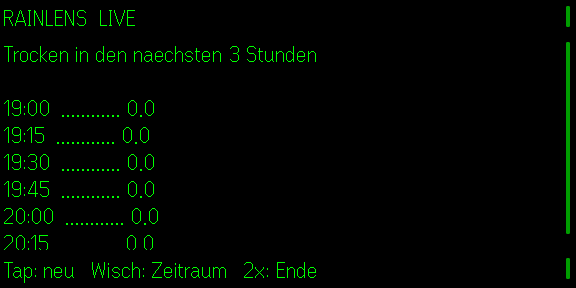
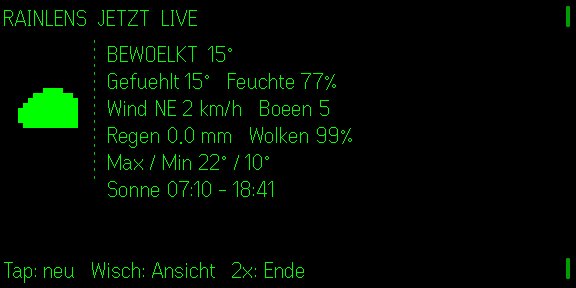
Upgrade RainLens to full weather app

diff --git a/apps/rain-lens/src/main.ts b/apps/rain-lens/src/main.ts
@@ -2,31 +2,42 @@ import { AppLocationAccuracy, waitForEvenAppBridge, type EvenAppBridge } from "@
 import { createTextPage, updateTextPage, type TextView } from "./glasses/text";
 import { getLocale, languageSelect, setLocale, tr, type Locale, type Messages } from "./i18n";
 import { gestureFromEvent } from "./input/gestures";
-import { clock, demoRain, parseOpenMeteo, rainBar, rainSummary, type RainWindow } from "./rain/model";
+import { clock, dayName, demoWeather, parseOpenMeteo, weatherKind, windCompass, type WeatherForecast } from "./rain/model";
+import { renderWeatherIcons } from "./weather/icons";
 
 const FALLBACK = { latitude: 47.8095, longitude: 13.0550 };
 const messages: Messages = {
-  de: { dry: "Trocken in den naechsten 3 Stunden", rain: "Regen ab {time} · Spitze {peak} mm", updating: "Aktualisiere...", controls: "Tap: neu   Wisch: Zeitraum   2x: Ende", lede: "Niederschlag in 15-Minuten-Schritten – ohne Konto und API-Schluessel.", live: "Live-Prognose", demo: "Demo-Fallback", refresh: "Jetzt aktualisieren", settings: "Standort", automatic: "Standort des Telefons verwenden", latitude: "Breitengrad", longitude: "Laengengrad", help: "Automatisch nutzt die Telefonposition. Manuelle Koordinaten werden lokal gespeichert." },
-  en: { dry: "Dry for the next 3 hours", rain: "Rain from {time} · peak {peak} mm", updating: "Updating...", controls: "Tap: refresh   Swipe: range   2x: close", lede: "Precipitation in 15-minute steps, without an account or API key.", live: "Live forecast", demo: "Demo fallback", refresh: "Refresh now", settings: "Location", automatic: "Use phone location", latitude: "Latitude", longitude: "Longitude", help: "Automatic mode uses the phone location. Manual coordinates stay on this device." },
-  fr: { dry: "Temps sec pendant les 3 prochaines heures", rain: "Pluie dès {time} · pic {peak} mm", updating: "Actualisation...", controls: "Tap: actualiser   Swipe: période   2x: fermer", lede: "Précipitations par pas de 15 minutes, sans compte ni clé API.", live: "Prévision en direct", demo: "Mode démo", refresh: "Actualiser", settings: "Position", automatic: "Utiliser la position du téléphone", latitude: "Latitude", longitude: "Longitude", help: "Le mode automatique utilise le téléphone. Les coordonnées manuelles restent sur cet appareil." },
-  es: { dry: "Sin lluvia durante las próximas 3 horas", rain: "Lluvia desde {time} · máximo {peak} mm", updating: "Actualizando...", controls: "Tap: actualizar   Deslizar: periodo   2x: cerrar", lede: "Precipitación cada 15 minutos, sin cuenta ni clave API.", live: "Pronóstico en directo", demo: "Modo demo", refresh: "Actualizar", settings: "Ubicación", automatic: "Usar ubicación del teléfono", latitude: "Latitud", longitude: "Longitud", help: "El modo automático usa el teléfono. Las coordenadas manuales quedan en este dispositivo." },
-  it: { dry: "Nessuna pioggia nelle prossime 3 ore", rain: "Pioggia dalle {time} · picco {peak} mm", updating: "Aggiornamento...", controls: "Tap: aggiorna   Scorri: periodo   2x: chiudi", lede: "Precipitazioni ogni 15 minuti, senza account o chiave API.", live: "Previsioni live", demo: "Modalità demo", refresh: "Aggiorna", settings: "Posizione", automatic: "Usa la posizione del telefono", latitude: "Latitudine", longitude: "Longitudine", help: "La modalità automatica usa il telefono. Le coordinate manuali restano su questo dispositivo." },
+  de: { lede: "Aktuelles Wetter, Stunden- und 3-Tage-Prognose direkt auf der G2.", live: "Live-Prognose", demo: "Demo-Fallback", updating: "Aktualisiere...", controls: "Tap: neu   Wisch: Ansicht   2x: Ende", now: "JETZT", hourly: "STUNDEN", days: "3 TAGE", feels: "Gefuehlt", humidity: "Feuchte", clouds: "Wolken", wind: "Wind", gusts: "Boeen", precipitation: "Regen", highLow: "Max / Min", sun: "Sonne", chance: "Regenrisiko", refresh: "Jetzt aktualisieren", settings: "Standort", automatic: "Standort des Telefons verwenden", latitude: "Breitengrad", longitude: "Laengengrad", help: "Automatisch nutzt die Telefonposition. Manuelle Koordinaten werden nur lokal gespeichert.", clear: "Klar", cloud: "Bewoelkt", fog: "Nebel", rain: "Regen", snow: "Schnee", storm: "Gewitter" },
+  en: { lede: "Current weather plus hourly and 3-day forecasts, directly on the G2.", live: "Live forecast", demo: "Demo fallback", updating: "Updating...", controls: "Tap: refresh   Swipe: view   2x: close", now: "NOW", hourly: "HOURLY", days: "3 DAYS", feels: "Feels", humidity: "Humidity", clouds: "Clouds", wind: "Wind", gusts: "Gusts", precipitation: "Rain", highLow: "High / Low", sun: "Sun", chance: "Rain chance", refresh: "Refresh now", settings: "Location", automatic: "Use phone location", latitude: "Latitude", longitude: "Longitude", help: "Automatic mode uses the phone location. Manual coordinates stay only on this device.", clear: "Clear", cloud: "Cloudy", fog: "Fog", rain: "Rain", snow: "Snow", storm: "Storm" },
+  fr: { lede: "Meteo actuelle, previsions horaires et sur 3 jours directement sur la G2.", live: "Prevision en direct", demo: "Mode demo", updating: "Actualisation...", controls: "Tap: actualiser   Swipe: vue   2x: fermer", now: "MAINTENANT", hourly: "HEURES", days: "3 JOURS", feels: "Ressenti", humidity: "Humidite", clouds: "Nuages", wind: "Vent", gusts: "Rafales", precipitation: "Pluie", highLow: "Max / Min", sun: "Soleil", chance: "Risque pluie", refresh: "Actualiser", settings: "Position", automatic: "Utiliser la position du telephone", latitude: "Latitude", longitude: "Longitude", help: "Le mode automatique utilise le telephone. Les coordonnees restent sur cet appareil.", clear: "Clair", cloud: "Nuageux", fog: "Brouillard", rain: "Pluie", snow: "Neige", storm: "Orage" },
+  es: { lede: "Tiempo actual y pronosticos por hora y para 3 dias directamente en la G2.", live: "Pronostico en directo", demo: "Modo demo", updating: "Actualizando...", controls: "Tap: actualizar   Deslizar: vista   2x: cerrar", now: "AHORA", hourly: "HORAS", days: "3 DIAS", feels: "Sensacion", humidity: "Humedad", clouds: "Nubes", wind: "Viento", gusts: "Rafagas", precipitation: "Lluvia", highLow: "Max / Min", sun: "Sol", chance: "Prob. lluvia", refresh: "Actualizar", settings: "Ubicacion", automatic: "Usar ubicacion del telefono", latitude: "Latitud", longitude: "Longitud", help: "El modo automatico usa el telefono. Las coordenadas quedan solo en este dispositivo.", clear: "Despejado", cloud: "Nublado", fog: "Niebla", rain: "Lluvia", snow: "Nieve", storm: "Tormenta" },
+  it: { lede: "Meteo attuale e previsioni orarie e a 3 giorni direttamente sulla G2.", live: "Previsioni live", demo: "Modalita demo", updating: "Aggiornamento...", controls: "Tap: aggiorna   Scorri: vista   2x: chiudi", now: "ORA", hourly: "ORE", days: "3 GIORNI", feels: "Percepita", humidity: "Umidita", clouds: "Nuvole", wind: "Vento", gusts: "Raffiche", precipitation: "Pioggia", highLow: "Max / Min", sun: "Sole", chance: "Prob. pioggia", refresh: "Aggiorna", settings: "Posizione", automatic: "Usa la posizione del telefono", latitude: "Latitudine", longitude: "Longitudine", help: "La modalita automatica usa il telefono. Le coordinate restano solo su questo dispositivo.", clear: "Sereno", cloud: "Nuvoloso", fog: "Nebbia", rain: "Pioggia", snow: "Neve", storm: "Temporale" },
 };
+
+const round = (value: number): string => `${Math.round(value)}°`;
 
 async function boot(): Promise<void> {
   const bridge: EvenAppBridge = await waitForEvenAppBridge();
-  let locale = getLocale(); let forecast: RainWindow = demoRain(); let loading = false; let error = ""; let pageReady = false; let last = "";
-  const summary = (): string => rainSummary(forecast.points, tr(messages, locale, "dry"), tr(messages, locale, "rain"), locale);
-  const view = (): TextView => ({ header: `RAINLENS  ${forecast.source === "live" ? "LIVE" : "DEMO"}`, body: [summary(), "", ...forecast.points.slice(0, 6).map((point) => `${clock(point.time, locale)}  ${rainBar(point.mm)} ${point.mm.toFixed(1)}`), ...(error ? [`! ${error}`] : [])], footer: loading ? tr(messages, locale, "updating") : tr(messages, locale, "controls") });
-  const draw = async (): Promise<void> => { const next = view(); const signature = JSON.stringify(next); if (signature === last) return; const result = pageReady ? await updateTextPage(bridge, next) : await createTextPage(bridge, next); if (result.ok) { pageReady = true; last = signature; } else pageReady = false; };
+  let locale = getLocale(); let forecast: WeatherForecast = demoWeather(); let loading = false; let error = ""; let pageReady = false; let last = ""; let page = 0;
+  const condition = (code: number): string => tr(messages, locale, weatherKind(code));
+  const currentLines = (): string[] => {
+    const current = forecast.current; const today = forecast.daily[0];
+    return [`${condition(current.weatherCode).toUpperCase()}  ${round(current.temperature)}`, `${tr(messages, locale, "feels")} ${round(current.feelsLike)}   ${tr(messages, locale, "humidity")} ${Math.round(current.humidity)}%`, `${tr(messages, locale, "wind")} ${windCompass(current.windDirection)} ${Math.round(current.windSpeed)} km/h   ${tr(messages, locale, "gusts")} ${Math.round(current.windGusts)}`, `${tr(messages, locale, "precipitation")} ${current.precipitation.toFixed(1)} mm   ${tr(messages, locale, "clouds")} ${Math.round(current.cloudCover)}%`, today ? `${tr(messages, locale, "highLow")} ${round(today.maximum)} / ${round(today.minimum)}` : "", today ? `${tr(messages, locale, "sun")} ${clock(today.sunrise, locale)} - ${clock(today.sunset, locale)}` : ""].filter(Boolean);
+  };
+  const hourlyLines = (): string[] => forecast.hourly.slice(0, 6).map((hour) => `${clock(hour.time, locale)}  ${round(hour.temperature).padEnd(4)} ${condition(hour.weatherCode).padEnd(10)} ${Math.round(hour.precipitationProbability)}%`);
+  const dailyLines = (): string[] => forecast.daily.map((day) => `${dayName(day.date, locale).toUpperCase().padEnd(4)} ${round(day.maximum)} / ${round(day.minimum)}  ${condition(day.weatherCode).padEnd(10)} ${Math.round(day.precipitationProbability)}%`);
+  const view = (): TextView => ({ header: `RAINLENS  ${[tr(messages, locale, "now"), tr(messages, locale, "hourly"), tr(messages, locale, "days")][page]}  ${forecast.source === "live" ? "LIVE" : "DEMO"}`, body: [...(page === 0 ? currentLines() : page === 1 ? hourlyLines() : dailyLines()), ...(error ? [`! ${error}`] : [])], footer: loading ? tr(messages, locale, "updating") : tr(messages, locale, "controls") });
+  const draw = async (): Promise<void> => { const text = view(); const signature = JSON.stringify(text); if (signature === last) return; const next: TextView = { ...text, imageData: await renderWeatherIcons(forecast, page) }; const result = pageReady ? await updateTextPage(bridge, next) : await createTextPage(bridge, next); if (result.ok) { pageReady = true; last = signature; } else pageReady = false; };
   const coordinates = async (): Promise<{ latitude: number; longitude: number }> => { const automatic = localStorage.getItem("rainlens.auto") !== "false"; if (automatic) { const fix = await bridge.getAppLocation({ accuracy: AppLocationAccuracy.Medium }).catch(() => null); if (fix) return fix; } const latitude = Number(localStorage.getItem("rainlens.lat")); const longitude = Number(localStorage.getItem("rainlens.lon")); return Number.isFinite(latitude) && Number.isFinite(longitude) && (latitude !== 0 || longitude !== 0) ? { latitude, longitude } : FALLBACK; };
-  const refresh = async (): Promise<void> => { loading = true; error = ""; await draw(); const position = await coordinates(); const url = new URL("https://api.open-meteo.com/v1/forecast"); url.searchParams.set("latitude", String(position.latitude)); url.searchParams.set("longitude", String(position.longitude)); url.searchParams.set("minutely_15", "precipitation"); url.searchParams.set("forecast_minutely_15", "12"); url.searchParams.set("timezone", "auto"); try { const response = await fetch(url); if (!response.ok) throw new Error(`HTTP ${response.status}`); forecast = parseOpenMeteo(await response.json()); } catch (cause) { error = cause instanceof Error ? cause.message : String(cause); } loading = false; last = ""; await draw(); renderPhone(); };
-  const renderPhone = (): void => { const app = document.querySelector<HTMLDivElement>("#app"); if (!app) return; const automatic = localStorage.getItem("rainlens.auto") !== "false"; app.innerHTML = `<header class="brand"><div class="brand-mark">QUIETGLASS / WEATHER</div><h1>RainLens</h1><p class="lede">${tr(messages, locale, "lede")}</p></header><section class="card">${languageSelect(locale)}</section><section class="card"><div class="status-row"><span class="status-dot ${forecast.source === "demo" ? "warn" : ""}"></span><strong>${tr(messages, locale, forecast.source === "live" ? "live" : "demo")}</strong></div><h2>${summary()}</h2><div class="timeline">${forecast.points.slice(0, 8).map((point) => `<div><span>${clock(point.time, locale)}</span><b style="width:${Math.min(100, point.mm * 32)}%"></b><em>${point.mm.toFixed(1)} mm</em></div>`).join("")}</div><button id="refresh">${tr(messages, locale, "refresh")}</button></section><section class="card"><h2>${tr(messages, locale, "settings")}</h2><label class="check"><input id="automatic" type="checkbox"${automatic ? " checked" : ""}>${tr(messages, locale, "automatic")}</label><label>${tr(messages, locale, "latitude")}<input id="lat" type="text" value="${localStorage.getItem("rainlens.lat") ?? FALLBACK.latitude}"></label><label>${tr(messages, locale, "longitude")}<input id="lon" type="text" value="${localStorage.getItem("rainlens.lon") ?? FALLBACK.longitude}"></label><p class="hint">${tr(messages, locale, "help")}</p></section>`;
+  const refresh = async (): Promise<void> => { loading = true; error = ""; await draw(); const position = await coordinates(); const url = new URL("https://api.open-meteo.com/v1/forecast"); url.searchParams.set("latitude", String(position.latitude)); url.searchParams.set("longitude", String(position.longitude)); url.searchParams.set("current", "temperature_2m,relative_humidity_2m,apparent_temperature,is_day,precipitation,weather_code,cloud_cover,wind_speed_10m,wind_direction_10m,wind_gusts_10m"); url.searchParams.set("hourly", "temperature_2m,precipitation_probability,precipitation,weather_code,wind_speed_10m"); url.searchParams.set("daily", "weather_code,temperature_2m_max,temperature_2m_min,precipitation_probability_max,sunrise,sunset"); url.searchParams.set("forecast_days", "3"); url.searchParams.set("timezone", "auto"); try { const response = await fetch(url); if (!response.ok) throw new Error(`HTTP ${response.status}`); forecast = parseOpenMeteo(await response.json()); } catch (cause) { error = cause instanceof Error ? cause.message : String(cause); } loading = false; last = ""; await draw(); renderPhone(); };
+  const renderPhone = (): void => {
+    const app = document.querySelector<HTMLDivElement>("#app"); if (!app) return; const automatic = localStorage.getItem("rainlens.auto") !== "false"; const current = forecast.current; const today = forecast.daily[0];
+    app.innerHTML = `<header class="brand"><div class="brand-mark">QUIETGLASS / WEATHER</div><h1>RainLens</h1><p class="lede">${tr(messages, locale, "lede")}</p></header><section class="card compact">${languageSelect(locale)}</section><section class="card weather-card"><div class="status-row"><span class="status-dot ${forecast.source === "demo" ? "warn" : ""}"></span><strong>${tr(messages, locale, forecast.source === "live" ? "live" : "demo")}</strong><time>${clock(current.time, locale)}</time></div><div class="weather-hero"><div><span>${condition(current.weatherCode)}</span><strong>${round(current.temperature)}</strong></div><p>${tr(messages, locale, "feels")} ${round(current.feelsLike)}</p></div><div class="weather-grid"><div><span>${tr(messages, locale, "humidity")}</span><b>${Math.round(current.humidity)}%</b></div><div><span>${tr(messages, locale, "wind")}</span><b>${windCompass(current.windDirection)} ${Math.round(current.windSpeed)}</b><small>km/h</small></div><div><span>${tr(messages, locale, "precipitation")}</span><b>${current.precipitation.toFixed(1)}</b><small>mm</small></div><div><span>${tr(messages, locale, "clouds")}</span><b>${Math.round(current.cloudCover)}%</b></div></div>${error ? `<p class="error">${error}</p>` : ""}<button id="refresh">${tr(messages, locale, "refresh")}</button></section><section class="card"><div class="section-title"><h2>${tr(messages, locale, "hourly")}</h2><span>${tr(messages, locale, "chance")}</span></div><div class="hourly-strip">${forecast.hourly.slice(0, 8).map((hour) => `<div><time>${clock(hour.time, locale)}</time><b>${round(hour.temperature)}</b><span>${condition(hour.weatherCode)}</span><em>${Math.round(hour.precipitationProbability)}%</em></div>`).join("")}</div></section><section class="card"><h2>${tr(messages, locale, "days")}</h2><div class="forecast-list">${forecast.daily.map((day) => `<div><b>${dayName(day.date, locale)}</b><span>${condition(day.weatherCode)}</span><em>${round(day.maximum)} / ${round(day.minimum)}</em><small>${Math.round(day.precipitationProbability)}%</small></div>`).join("")}</div>${today ? `<div class="sun-row"><span>${tr(messages, locale, "sun")}</span><b>${clock(today.sunrise, locale)} → ${clock(today.sunset, locale)}</b></div>` : ""}</section><section class="card"><h2>${tr(messages, locale, "settings")}</h2><label class="check"><input id="automatic" type="checkbox"${automatic ? " checked" : ""}>${tr(messages, locale, "automatic")}</label><label>${tr(messages, locale, "latitude")}<input id="lat" type="text" value="${localStorage.getItem("rainlens.lat") ?? FALLBACK.latitude}"></label><label>${tr(messages, locale, "longitude")}<input id="lon" type="text" value="${localStorage.getItem("rainlens.lon") ?? FALLBACK.longitude}"></label><p class="hint">${tr(messages, locale, "help")}</p></section>`;
     document.querySelector("#language")?.addEventListener("change", (event) => { locale = (event.target as HTMLSelectElement).value as Locale; setLocale(locale); last = ""; void draw(); renderPhone(); });
     document.querySelector("#refresh")?.addEventListener("click", () => { const auto = document.querySelector<HTMLInputElement>("#automatic"); const lat = document.querySelector<HTMLInputElement>("#lat"); const lon = document.querySelector<HTMLInputElement>("#lon"); localStorage.setItem("rainlens.auto", String(auto?.checked ?? true)); if (lat) localStorage.setItem("rainlens.lat", lat.value); if (lon) localStorage.setItem("rainlens.lon", lon.value); void refresh(); });
   };
   await draw(); renderPhone(); void refresh();
-  bridge.onEvenHubEvent((event) => { const gesture = gestureFromEvent(event); if (!gesture) return; if (gesture.gesture === "doubleClick") { void bridge.shutDownPageContainer(); return; } if (gesture.gesture === "click" || gesture.gesture.startsWith("scroll")) void refresh(); });
+  bridge.onEvenHubEvent((event) => { const gesture = gestureFromEvent(event); if (!gesture) return; if (gesture.gesture === "doubleClick") { void bridge.shutDownPageContainer(); return; } if (gesture.gesture === "click") { void refresh(); return; } if (gesture.gesture.startsWith("scroll")) { page = gesture.gesture === "scrollDown" ? (page + 1) % 3 : (page + 2) % 3; last = ""; void draw(); } });
   bridge.onDeviceStatusChanged((status) => { if (status?.connectType === "connected") { pageReady = false; last = ""; void draw(); } });
 }
 void boot().catch((error: unknown) => console.error("[rainlens]", error));

diff --git a/apps/rain-lens/src/rain/model.ts b/apps/rain-lens/src/rain/model.ts
@@ -1,15 +1,61 @@
-export interface RainPoint { readonly time: string; readonly mm: number; }
-export interface RainWindow { readonly points: readonly RainPoint[]; readonly source: "live" | "demo"; }
-export function parseOpenMeteo(value: unknown): RainWindow {
-  const root = value as { minutely_15?: { time?: unknown; precipitation?: unknown } };
-  const times = root?.minutely_15?.time; const rain = root?.minutely_15?.precipitation;
-  if (!Array.isArray(times) || !Array.isArray(rain)) throw new Error("forecast has no 15-minute precipitation data");
-  const points: RainPoint[] = [];
-  for (let index = 0; index < Math.min(times.length, rain.length, 12); index += 1) { const time = times[index]; const mm = Number(rain[index]); if (typeof time === "string" && Number.isFinite(mm)) points.push({ time, mm }); }
-  if (points.length === 0) throw new Error("forecast is empty");
-  return { points, source: "live" };
+export type WeatherKind = "clear" | "cloud" | "fog" | "rain" | "snow" | "storm";
+
+export interface CurrentWeather {
+  readonly time: string; readonly temperature: number; readonly feelsLike: number; readonly humidity: number;
+  readonly precipitation: number; readonly weatherCode: number; readonly cloudCover: number; readonly windSpeed: number;
+  readonly windDirection: number; readonly windGusts: number; readonly isDay: boolean;
 }
-export function demoRain(): RainWindow { const values = [0, 0.1, 0.4, 1.2, 2.4, 1.7, 0.8, 0.2, 0, 0, 0.3, 0.7]; return { source: "demo", points: values.map((mm, index) => ({ time: new Date(Date.now() + index * 900_000).toISOString(), mm })) }; }
-export function rainBar(mm: number): string { const count = Math.min(12, Math.max(0, Math.round(mm * 4))); return `${"#".repeat(count)}${".".repeat(12 - count)}`; }
-export function rainSummary(points: readonly RainPoint[], dry = "Trocken in den naechsten 3 Stunden", rain = "Regen ab {time} · Spitze {peak} mm", locale = "de-AT"): string { const first = points.find((point) => point.mm >= 0.1); if (!first) return dry; const peak = points.reduce((best, point) => point.mm > best.mm ? point : best, points[0] ?? first); return rain.replace("{time}", clock(first.time, locale)).replace("{peak}", peak.mm.toFixed(1)); }
+export interface HourWeather { readonly time: string; readonly temperature: number; readonly precipitationProbability: number; readonly precipitation: number; readonly weatherCode: number; readonly windSpeed: number; }
+export interface DayWeather { readonly date: string; readonly minimum: number; readonly maximum: number; readonly precipitationProbability: number; readonly weatherCode: number; readonly sunrise: string; readonly sunset: string; }
+export interface WeatherForecast { readonly current: CurrentWeather; readonly hourly: readonly HourWeather[]; readonly daily: readonly DayWeather[]; readonly source: "live" | "demo"; }
+
+type NumericRecord = Record<string, unknown>;
+function finite(record: NumericRecord, key: string): number { const value = Number(record[key]); if (!Number.isFinite(value)) throw new Error(`forecast field ${key} is missing`); return value; }
+function strings(value: unknown): readonly string[] { return Array.isArray(value) ? value.filter((item): item is string => typeof item === "string") : []; }
+function numbers(value: unknown): readonly number[] { return Array.isArray(value) ? value.map(Number) : []; }
+
+export function parseOpenMeteo(value: unknown): WeatherForecast {
+  const root = value as { current?: NumericRecord; hourly?: NumericRecord; daily?: NumericRecord };
+  if (!root?.current || typeof root.current.time !== "string") throw new Error("forecast has no current weather");
+  const current: CurrentWeather = {
+    time: root.current.time, temperature: finite(root.current, "temperature_2m"), feelsLike: finite(root.current, "apparent_temperature"),
+    humidity: finite(root.current, "relative_humidity_2m"), precipitation: finite(root.current, "precipitation"), weatherCode: finite(root.current, "weather_code"),
+    cloudCover: finite(root.current, "cloud_cover"), windSpeed: finite(root.current, "wind_speed_10m"), windDirection: finite(root.current, "wind_direction_10m"),
+    windGusts: finite(root.current, "wind_gusts_10m"), isDay: finite(root.current, "is_day") === 1,
+  };
+  const hourly = root.hourly ?? {}; const hourTimes = strings(hourly.time); const hourTemperature = numbers(hourly.temperature_2m);
+  const hourRainChance = numbers(hourly.precipitation_probability); const hourRain = numbers(hourly.precipitation);
+  const hourCodes = numbers(hourly.weather_code); const hourWind = numbers(hourly.wind_speed_10m); const hours: HourWeather[] = [];
+  for (let index = 0; index < hourTimes.length && hours.length < 12; index += 1) {
+    const time = hourTimes[index]; if (!time || time < current.time) continue;
+    const values = [hourTemperature[index], hourRainChance[index], hourRain[index], hourCodes[index], hourWind[index]];
+    if (!values.every(Number.isFinite)) continue;
+    hours.push({ time, temperature: values[0]!, precipitationProbability: values[1]!, precipitation: values[2]!, weatherCode: values[3]!, windSpeed: values[4]! });
+  }
+  if (hours.length === 0) throw new Error("forecast has no hourly weather");
+  const daily = root.daily ?? {}; const dayDates = strings(daily.time); const dayMin = numbers(daily.temperature_2m_min); const dayMax = numbers(daily.temperature_2m_max);
+  const dayRain = numbers(daily.precipitation_probability_max); const dayCodes = numbers(daily.weather_code); const sunrises = strings(daily.sunrise); const sunsets = strings(daily.sunset); const days: DayWeather[] = [];
+  for (let index = 0; index < Math.min(dayDates.length, 3); index += 1) {
+    const date = dayDates[index]; const sunrise = sunrises[index]; const sunset = sunsets[index]; const values = [dayMin[index], dayMax[index], dayRain[index], dayCodes[index]];
+    if (!date || !sunrise || !sunset || !values.every(Number.isFinite)) continue;
+    days.push({ date, minimum: values[0]!, maximum: values[1]!, precipitationProbability: values[2]!, weatherCode: values[3]!, sunrise, sunset });
+  }
+  if (days.length === 0) throw new Error("forecast has no daily weather");
+  return { current, hourly: hours, daily: days, source: "live" };
+}
+
+export function demoWeather(now = new Date()): WeatherForecast {
+  const hour = new Date(now); hour.setMinutes(0, 0, 0);
+  const hourly = Array.from({ length: 12 }, (_, index): HourWeather => ({ time: new Date(hour.valueOf() + index * 3_600_000).toISOString(), temperature: 14 + Math.sin(index / 3) * 3, precipitationProbability: [15, 20, 35, 60, 75, 55, 30, 20, 10, 10, 5, 5][index] ?? 0, precipitation: [0, 0, 0, 0.4, 1.2, 0.6, 0.1, 0, 0, 0, 0, 0][index] ?? 0, weatherCode: [2, 2, 3, 61, 63, 61, 3, 2, 1, 1, 0, 0][index] ?? 0, windSpeed: 12 + index }));
+  const daily = Array.from({ length: 3 }, (_, index): DayWeather => { const date = new Date(now.valueOf() + index * 86_400_000).toISOString().slice(0, 10); return { date, minimum: 8 + index, maximum: 18 + index, precipitationProbability: [75, 25, 10][index] ?? 0, weatherCode: [61, 2, 1][index] ?? 0, sunrise: `${date}T07:08`, sunset: `${date}T18:42` }; });
+  return { source: "demo", current: { time: now.toISOString(), temperature: 14.8, feelsLike: 13.6, humidity: 72, precipitation: 0, weatherCode: 2, cloudCover: 55, windSpeed: 14, windDirection: 245, windGusts: 24, isDay: true }, hourly, daily };
+}
+
+export function weatherKind(code: number): WeatherKind {
+  if (code === 0 || code === 1) return "clear"; if (code === 2 || code === 3) return "cloud"; if (code === 45 || code === 48) return "fog";
+  if ((code >= 51 && code <= 67) || (code >= 80 && code <= 82)) return "rain"; if ((code >= 71 && code <= 77) || code === 85 || code === 86) return "snow";
+  if (code >= 95) return "storm"; return "cloud";
+}
+export function windCompass(degrees: number): string { const points = ["N", "NE", "E", "SE", "S", "SW", "W", "NW"]; return points[Math.round(((degrees % 360) + 360) % 360 / 45) % 8] ?? "N"; }
 export function clock(iso: string, locale = "de-AT"): string { const date = new Date(iso); return Number.isNaN(date.valueOf()) ? "--:--" : date.toLocaleTimeString(locale, { hour: "2-digit", minute: "2-digit" }); }
+export function dayName(iso: string, locale = "de-AT"): string { const date = new Date(`${iso}T12:00:00`); return Number.isNaN(date.valueOf()) ? "---" : date.toLocaleDateString(locale, { weekday: "short" }); }

diff --git a/apps/rain-lens/src/glasses/text.ts b/apps/rain-lens/src/glasses/text.ts
@@ -1,6 +1,6 @@
-import { CreateStartUpPageContainer, RebuildPageContainer, StartUpPageCreateResult, TextContainerProperty, TextContainerUpgrade, type EvenAppBridge } from "@evenrealities/even_hub_sdk";
+import { CreateStartUpPageContainer, ImageContainerProperty, ImageRawDataUpdate, ImageRawDataUpdateResult, RebuildPageContainer, StartUpPageCreateResult, TextContainerProperty, TextContainerUpgrade, type EvenAppBridge } from "@evenrealities/even_hub_sdk";
 
-export interface TextView { readonly header: string; readonly body: readonly string[]; readonly footer: string; }
+export interface TextView { readonly header: string; readonly body: readonly string[]; readonly footer: string; readonly imageData?: Uint8Array; }
 export interface RenderResult { readonly ok: boolean; readonly reason?: string; }
 const parts = [
   { id: 1, name: "header", y: 0, height: 34 },
@@ -11,13 +11,20 @@ const parts = [
 function page(view: TextView): CreateStartUpPageContainer {
   const content = [view.header, view.body.join("\n"), view.footer];
   return new CreateStartUpPageContainer({
-    containerTotalNum: 3,
+    containerTotalNum: view.imageData ? 4 : 3,
     textObject: parts.map((part, index) => new TextContainerProperty({
-      containerID: part.id, containerName: part.name, xPosition: 0, yPosition: part.y,
-      width: 576, height: part.height, paddingLength: 4, zOrderIndex: index + 1,
+      containerID: part.id, containerName: part.name, xPosition: part.id === 2 && view.imageData ? 104 : 0, yPosition: part.y,
+      width: part.id === 2 && view.imageData ? 472 : 576, height: part.height, paddingLength: 4, zOrderIndex: index + 1,
       isEventCapture: part.id === 2 ? 1 : 0, content: content[index] ?? "",
     })),
+    imageObject: view.imageData ? [new ImageContainerProperty({ containerID: 4, containerName: "weather-icons", xPosition: 0, yPosition: 36, width: 96, height: 144, zOrderIndex: 4 })] : [],
   });
+}
+
+async function updateImage(bridge: EvenAppBridge, view: TextView): Promise<RenderResult> {
+  if (!view.imageData) return { ok: true };
+  try { const result = await bridge.updateImageRawData(new ImageRawDataUpdate({ containerID: 4, containerName: "weather-icons", imageData: view.imageData })); return result === ImageRawDataUpdateResult.success ? { ok: true } : { ok: false, reason: `image:${String(result)}` }; }
+  catch (error) { return { ok: false, reason: error instanceof Error ? error.message : String(error) }; }
 }
 
 export async function createTextPage(bridge: EvenAppBridge, view: TextView): Promise<RenderResult> {
@@ -25,7 +32,7 @@ export async function createTextPage(bridge: EvenAppBridge, view: TextView): Pro
   try { await bridge.rebuildPageContainer(new RebuildPageContainer({ ...next })); } catch { /* firmware path */ }
   try {
     const result = await bridge.createStartUpPageContainer(next);
-    return result === StartUpPageCreateResult.success ? { ok: true } : { ok: false, reason: `create:${String(result)}` };
+    return result === StartUpPageCreateResult.success ? updateImage(bridge, view) : { ok: false, reason: `create:${String(result)}` };
   } catch (error) { return { ok: false, reason: error instanceof Error ? error.message : String(error) }; }
 }
 
@@ -37,6 +44,6 @@ export async function updateTextPage(bridge: EvenAppBridge, view: TextView): Pro
       if (!part) continue;
       await bridge.textContainerUpgrade(new TextContainerUpgrade({ containerID: part.id, containerName: part.name, content: content[index] ?? "" }));
     }
-    return { ok: true };
+    return updateImage(bridge, view);
   } catch (error) { return { ok: false, reason: error instanceof Error ? error.message : String(error) }; }
 }

diff --git a/apps/rain-lens/src/ui/phone.css b/apps/rain-lens/src/ui/phone.css
@@ -38,6 +38,32 @@ main { max-width: 640px; margin: 0 auto; }
   margin-bottom: 16px;
 }
 .card h2 { margin: 0 0 12px; font-size: 15px; letter-spacing: 0.02em; }
+.card.compact { padding: 4px 16px 14px; }
+.weather-card { border-top: 3px solid var(--accent); }
+.status-row time { margin-left: auto; color: var(--muted); font: 500 12px/1.5 "JetBrains Mono", ui-monospace, monospace; }
+.weather-hero { display: flex; align-items: end; justify-content: space-between; gap: 16px; padding: 4px 0 18px; }
+.weather-hero div { display: grid; }
+.weather-hero span { color: var(--accent); font-weight: 700; letter-spacing: .04em; text-transform: uppercase; }
+.weather-hero strong { font-size: clamp(56px, 16vw, 82px); line-height: .95; letter-spacing: -.06em; }
+.weather-hero p { margin: 0 0 6px; color: var(--muted); white-space: nowrap; }
+.weather-grid { display: grid; grid-template-columns: repeat(4, 1fr); gap: 1px; overflow: hidden; border: 1px solid var(--line); border-radius: 10px; background: var(--line); }
+.weather-grid div { min-width: 0; padding: 11px 9px; background: var(--soft); }
+.weather-grid span, .weather-grid small { display: block; overflow: hidden; color: var(--muted); font-size: 11px; text-overflow: ellipsis; white-space: nowrap; }
+.weather-grid b { font-size: 18px; }
+.section-title { display: flex; align-items: baseline; justify-content: space-between; gap: 12px; }
+.section-title span { color: var(--muted); font-size: 12px; }
+.hourly-strip { display: grid; grid-auto-columns: minmax(78px, 1fr); grid-auto-flow: column; gap: 8px; overflow-x: auto; padding-bottom: 5px; scrollbar-color: var(--line) transparent; }
+.hourly-strip div { display: grid; gap: 3px; padding: 10px; border-radius: 10px; background: var(--bg); }
+.hourly-strip time, .hourly-strip span, .hourly-strip em { color: var(--muted); font-size: 12px; font-style: normal; }
+.hourly-strip b { font-size: 21px; }
+.hourly-strip em { color: var(--accent); font-weight: 700; }
+.forecast-list > div { display: grid; grid-template-columns: 55px 1fr auto 42px; align-items: center; gap: 10px; padding: 11px 0; border-bottom: 1px solid var(--line); }
+.forecast-list span, .forecast-list em, .forecast-list small { color: var(--muted); font-size: 13px; font-style: normal; }
+.forecast-list em, .forecast-list small { text-align: right; }
+.forecast-list small { color: var(--accent); }
+.sun-row { display: flex; justify-content: space-between; gap: 16px; padding-top: 13px; color: var(--muted); font-size: 13px; }
+.sun-row b { color: var(--text); }
+.error { padding: 8px 10px; border-radius: 8px; background: rgba(239,68,68,.12); color: #fca5a5; font-size: 13px; }
 
 label { display: block; margin: 12px 0 6px; font-size: 14px; color: var(--muted); }
 label.check { display: flex; align-items: center; gap: 8px; color: var(--text); }
@@ -105,3 +131,9 @@ code {
   border-radius: 5px; padding: 1px 5px; font-size: 13px;
 }
 footer.hint { text-align: center; padding: 8px 0 24px; }
+
+@media (max-width: 460px) {
+  .weather-grid { grid-template-columns: repeat(2, 1fr); }
+  .forecast-list > div { grid-template-columns: 48px 1fr auto; }
+  .forecast-list small { display: none; }
+}

diff --git a/apps/rain-lens/src/weather/icons.ts b/apps/rain-lens/src/weather/icons.ts
@@ -1,0 +1,26 @@
+import { weatherKind, type WeatherForecast, type WeatherKind } from "../rain/model";
+
+const icons: Record<WeatherKind, readonly string[]> = {
+  clear: [".....##.....", "..#..##..#..", "...#....#...", "............", ".#...####...#", "....######..", "##..######..", "##..######..", "....######..", ".#...####...#", "...#....#...", "..#..##..#.."],
+  cloud: ["............", "............", ".....####...", "...########.", "..##########", ".###########", "############", "############", "############", ".###########", "............", "............"],
+  fog: ["............", "...######...", ".##########.", "############", "............", ".##########.", "............", "..########..", "............", ".##########.", "............", "............"],
+  rain: ["............", ".....####...", "...########.", ".###########", "############", "############", "............", "..#...#...#.", ".##..##..##..", ".#...#...#...", "#...#...#...", "............"],
+  snow: ["............", ".....####...", "...########.", ".###########", "############", "############", "............", ".#...#...#...", "..#.#.#.#...", ".###.###.###.", "..#...#...#.", "............"],
+  storm: ["............", ".....####...", "...########.", ".###########", "############", "############", ".....##.....", "....###.....", "...#####....", ".....##.....", "....##......", "...##......."],
+};
+
+function drawIcon(ctx: CanvasRenderingContext2D, kind: WeatherKind, x: number, y: number, scale: number): void {
+  const pattern = icons[kind]; ctx.fillStyle = "#fff";
+  pattern.forEach((row, rowIndex) => { for (let column = 0; column < row.length; column += 1) if (row[column] === "#") ctx.fillRect(x + column * scale, y + rowIndex * scale, scale, scale); });
+}
+
+export async function renderWeatherIcons(forecast: WeatherForecast, page: number, width = 96, height = 144): Promise<Uint8Array> {
+  const canvas = document.createElement("canvas"); canvas.width = width; canvas.height = height; const ctx = canvas.getContext("2d"); if (!ctx) throw new Error("2d canvas unavailable");
+  ctx.imageSmoothingEnabled = false; ctx.fillStyle = "#000"; ctx.fillRect(0, 0, width, height);
+  ctx.fillStyle = "#555"; for (let y = 4; y < height; y += 8) ctx.fillRect(width - 2, y, 1, 3);
+  if (page === 0) drawIcon(ctx, weatherKind(forecast.current.weatherCode), 18, 42, 5);
+  if (page === 1) forecast.hourly.slice(0, 6).forEach((hour, index) => drawIcon(ctx, weatherKind(hour.weatherCode), 36, index * 24, 2));
+  if (page === 2) forecast.daily.slice(0, 3).forEach((day, index) => drawIcon(ctx, weatherKind(day.weatherCode), 30, 8 + index * 48, 3));
+  const blob: Blob = await new Promise((resolve, reject) => canvas.toBlob((value) => value ? resolve(value) : reject(new Error("PNG encode failed")), "image/png"));
+  return new Uint8Array(await blob.arrayBuffer());
+}

diff --git a/apps/rain-lens/tests/rain.test.ts b/apps/rain-lens/tests/rain.test.ts
@@ -1,7 +1,14 @@
 import { describe, expect, it } from "vitest";
-import { parseOpenMeteo, rainBar, rainSummary } from "../src/rain/model";
-describe("rain model", () => {
-  it("parses aligned 15-minute values", () => { expect(parseOpenMeteo({ minutely_15: { time: ["2026-10-03T10:00"], precipitation: [1.25] } }).points[0]?.mm).toBe(1.25); });
-  it("caps the bar", () => { expect(rainBar(99)).toBe("############"); });
-  it("describes dry weather", () => { expect(rainSummary([{ time: "2026-10-03T10:00", mm: 0 }])).toContain("Trocken"); });
+import { parseOpenMeteo, weatherKind, windCompass } from "../src/rain/model";
+
+const response = {
+  current: { time: "2026-10-03T11:00", temperature_2m: 14.5, apparent_temperature: 13.2, relative_humidity_2m: 72, precipitation: 0.2, weather_code: 61, cloud_cover: 80, wind_speed_10m: 18, wind_direction_10m: 225, wind_gusts_10m: 31, is_day: 1 },
+  hourly: { time: ["2026-10-03T10:00", "2026-10-03T11:00", "2026-10-03T12:00"], temperature_2m: [13, 14.5, 15], precipitation_probability: [20, 60, 75], precipitation: [0, 0.2, 0.8], weather_code: [3, 61, 63], wind_speed_10m: [15, 18, 20] },
+  daily: { time: ["2026-10-03"], temperature_2m_min: [8], temperature_2m_max: [18], precipitation_probability_max: [75], weather_code: [61], sunrise: ["2026-10-03T07:08"], sunset: ["2026-10-03T18:42"] },
+};
+
+describe("weather model", () => {
+  it("parses current, future hourly, and daily weather", () => { const weather = parseOpenMeteo(response); expect(weather.current.temperature).toBe(14.5); expect(weather.hourly.map((hour) => hour.time)).toEqual(["2026-10-03T11:00", "2026-10-03T12:00"]); expect(weather.daily[0]?.maximum).toBe(18); });
+  it("maps WMO weather codes to useful groups", () => { expect([weatherKind(0), weatherKind(45), weatherKind(63), weatherKind(75), weatherKind(95)]).toEqual(["clear", "fog", "rain", "snow", "storm"]); });
+  it("normalizes wind direction to eight compass points", () => { expect(windCompass(225)).toBe("SW"); expect(windCompass(370)).toBe("N"); expect(windCompass(-90)).toBe("W"); });
 });

diff --git a/apps/rain-lens/README.md b/apps/rain-lens/README.md
@@ -1,20 +1,27 @@
 # RainLens
 
-**Quietglass** · Niederschlag auf einen Blick für die Even Realities G2.
+**Quietglass** · Eine vollwertige Wetter-App für die Even Realities G2.
 
-RainLens holt die nächsten drei Stunden als 15-Minuten-Niederschlagswerte von Open-Meteo und zeigt daraus eine ruhige, lesbare Radar-Zeitleiste. Die Darstellung ist absichtlich keine winzige bunte Wetterkarte: Auf 576 × 288 monochromen Pixeln beantwortet sie die wichtigere Frage schneller – **wann beginnt der Regen, wie stark wird er, wann hört er auf?**
+RainLens zeigt nicht mehr nur Regen, sondern das komplette Wetterbild: aktuelle Temperatur und gefühlte Temperatur, Wetterlage, Luftfeuchte, Bewölkung, Wind und Böen, Niederschlag, die nächsten Stunden sowie eine Drei-Tage-Prognose. Die Informationen sind für das monochrome 576 × 288-Display priorisiert und bleiben mit wenigen Gesten erreichbar.
 
 ![RainLens im Even-Hub-Simulator](docs/screenshot.png)
 
 ## Funktionen
 
-- Standort vom Telefon, Salzburg als gekennzeichneter Fallback
-- zwölf 15-Minuten-Werte, davon sechs gleichzeitig auf der Brille
-- kein Konto und für nicht-kommerzielle Nutzung kein API-Schlüssel
-- Tap aktualisiert, Doppeltipp beendet
+- aktuelles Wetter mit Temperatur, gefühlter Temperatur und WMO-Wetterlage
+- klare monochrome Pixel-Piktogramme für Sonne, Wolken, Nebel, Regen, Schnee und Gewitter
+- Luftfeuchte, Bewölkung, Niederschlag, Windrichtung, Windstärke und Böen
+- zwölf kommende Stunden mit Temperatur und Regenwahrscheinlichkeit
+- Drei-Tage-Prognose mit Höchst-/Tiefstwerten und Sonnenauf-/untergang
+- Telefonstandort oder frei speicherbare Koordinaten; Salzburg als Fallback
+- Tap aktualisiert, Wischen wechselt die Ansicht, Doppeltipp beendet
 - Demo-Fallback bei Netzfehlern
-- automatische Spracherkennung plus Umschalter für Deutsch, Englisch, Französisch, Spanisch und Italienisch
-- alternativ zur Telefonposition frei speicherbare Koordinaten
+- Deutsch, Englisch, Französisch, Spanisch und Italienisch
+- keine Anmeldung und kein eigener API-Schlüssel erforderlich
+
+## Datenquelle
+
+RainLens lädt die Vorhersage direkt von Open-Meteo. Die App übermittelt nur die zur Prognose benötigten Koordinaten. Manuelle Koordinaten und die Sprachwahl bleiben lokal auf dem Gerät.
 
 ## Entwicklung
 
@@ -26,4 +33,4 @@ npm run dev
 npm run sim
 ```
 
-Noch nicht auf echter G2-Hardware geprüft. Open-Meteo liefert modellbasierte 15-Minuten-Niederschläge; RainLens behauptet deshalb nicht, ein meteorologisches Roh-Radarbild zu sein.
+Noch nicht auf echter G2-Hardware geprüft. Wetterdaten sind modellbasierte Prognosen und keine amtlichen Unwetterwarnungen.

diff --git a/README.md b/README.md
@@ -35,7 +35,7 @@ copying, so no app can break another.
 | [**Lumen Glass**](apps/lumen-glass) | Your [LUMEN](apps/lumen-glass) moth, the quest, and the minutes to golden hour. Photo from the phone, straight back to LUMEN. | 49 |
 | [**NextStop**](apps/nextstop) | Departures at the stop you are standing at, and the next stop while riding. Two keyless backends: ÖBB for live Austrian delays, Transitous/MOTIS for everywhere else. | 70 |
 | [**Agent Glass**](apps/agent-glass) | Watch a coding agent from the glasses and answer its permission prompts with a swipe. Talks to Even Realities' own Even Terminal. **Proof of concept** — see its README. | 39 |
-| [**RainLens**](apps/rain-lens) | A 15-minute Open-Meteo rain timeline using phone location or saved coordinates. | 3 |
+| [**RainLens**](apps/rain-lens) | Full Open-Meteo weather: current conditions, wind, rain, hourly outlook, and 3-day forecast. | 3 |
 | [**Dayline**](apps/dayline) | Calendar and reminders with direct `.ics` file import; the local bridge is optional. | 3 |
 | [**PodCaption**](apps/podcaption) | Podcast captions from a local VTT/SRT/JSON/text file or Podcasting 2.0 RSS transcripts. | 3 |
 | [**Companion**](apps/companion) | Push-to-talk personal assistant with a user-configurable local endpoint and explicit microphone control. | 3 |
